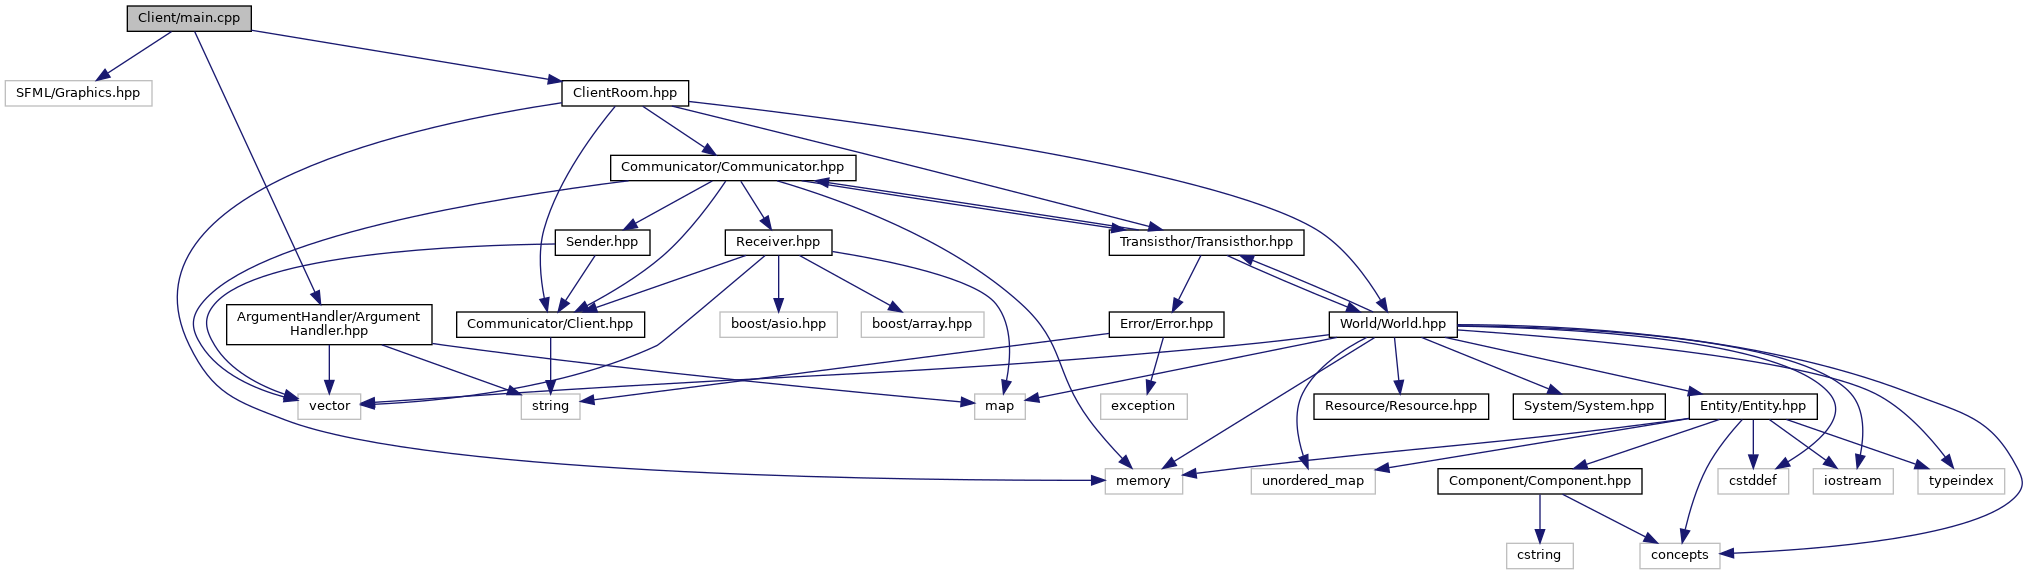
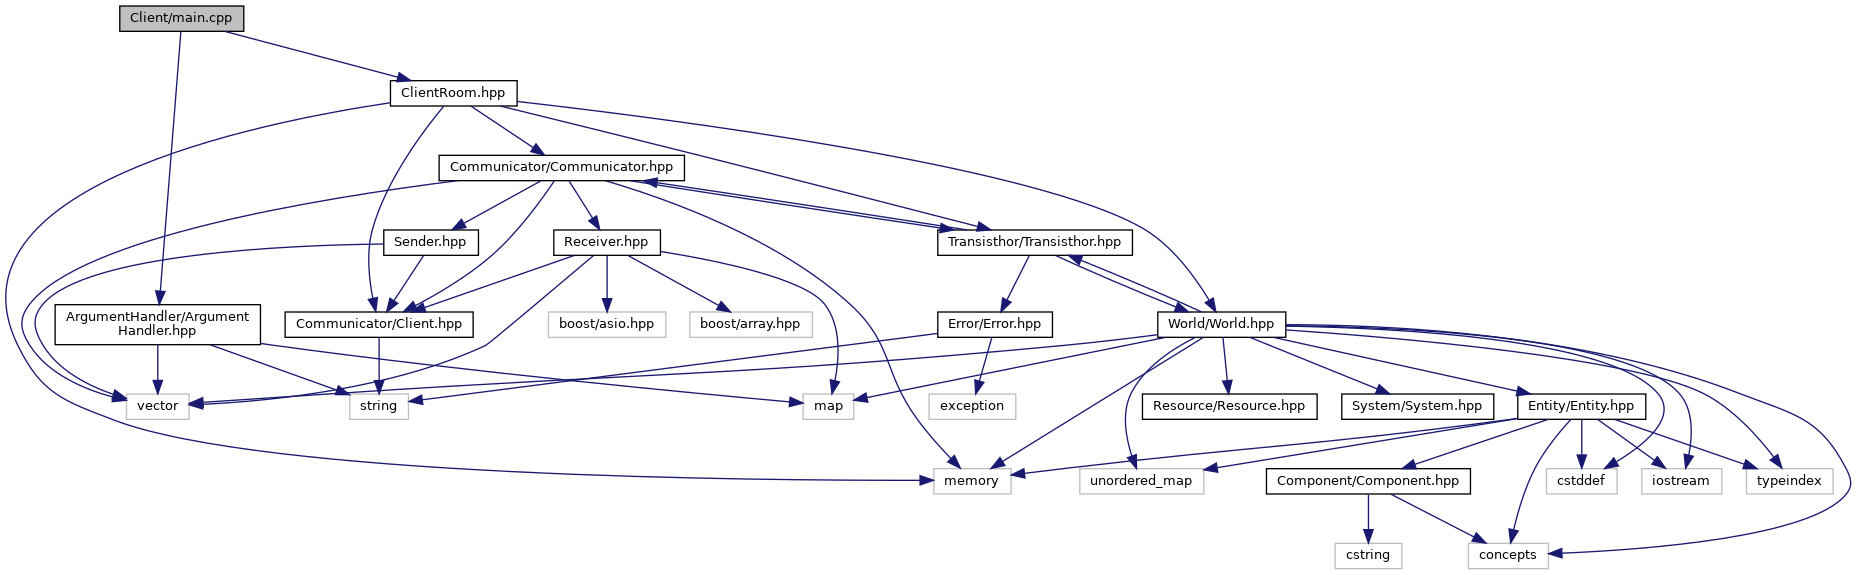
Deploying to gh-pages from @ R-Type-Epitech-Nantes/R-Type@b01fdc82051dd26b2456caabfe580a58cf3fda6e 🚀

diff --git a/_client_2main_8cpp.html b/_client_2main_8cpp.html
@@ -89,42 +89,40 @@ $(document).ready(function(){initNavTree('_client_2main_8cpp.html',''); initResi
 <div class="title">main.cpp File Reference</div>  </div>
 </div><!--header-->
 <div class="contents">
-<div class="textblock"><code>#include &lt;SFML/Graphics.hpp&gt;</code><br />
-<code>#include &quot;<a class="el" href="_argument_handler_8hpp_source.html">ArgumentHandler/ArgumentHandler.hpp</a>&quot;</code><br />
+<div class="textblock"><code>#include &quot;<a class="el" href="_argument_handler_8hpp_source.html">ArgumentHandler/ArgumentHandler.hpp</a>&quot;</code><br />
 <code>#include &quot;<a class="el" href="_client_room_8hpp_source.html">ClientRoom.hpp</a>&quot;</code><br />
 </div><div class="textblock"><div class="dynheader">
 Include dependency graph for main.cpp:</div>
 <div class="dyncontent">
 <div class="center"><img src="_client_2main_8cpp__incl.png" border="0" usemap="#_client_2main_8cpp" alt=""/></div>
 <map name="_client_2main_8cpp" id="_client_2main_8cpp">
-<area shape="rect" title=" " alt="" coords="127,5,251,32"/>
-<area shape="rect" title=" " alt="" coords="5,80,152,107"/>
-<area shape="rect" href="_argument_handler_8hpp.html" title=" " alt="" coords="227,304,432,345"/>
-<area shape="rect" href="_client_room_8hpp.html" title=" " alt="" coords="562,80,689,107"/>
-<area shape="rect" title=" " alt="" coords="975,393,1025,420"/>
-<area shape="rect" title=" " alt="" coords="521,393,580,420"/>
-<area shape="rect" title=" " alt="" coords="298,393,361,420"/>
-<area shape="rect" title=" " alt="" coords="1105,468,1183,495"/>
-<area shape="rect" href="_client_8hpp.html" title=" " alt="" coords="457,311,645,338"/>
-<area shape="rect" href="_communicator_8hpp.html" title=" " alt="" coords="611,155,856,181"/>
-<area shape="rect" href="_transisthor_8hpp.html" title=" " alt="" coords="1109,229,1304,256"/>
-<area shape="rect" href="_world_8hpp.html" title=" " alt="" coords="1329,311,1457,338"/>
-<area shape="rect" href="_receiver_8hpp.html" title=" " alt="" coords="725,229,832,256"/>
-<area shape="rect" href="_sender_8hpp.html" title=" " alt="" coords="555,229,650,256"/>
-<area shape="rect" title=" " alt="" coords="861,311,984,338"/>
-<area shape="rect" title=" " alt="" coords="720,311,837,338"/>
-<area shape="rect" href="_error_8hpp.html" title=" " alt="" coords="1109,311,1224,338"/>
-<area shape="rect" title=" " alt="" coords="1101,393,1187,420"/>
-<area shape="rect" title=" " alt="" coords="1640,543,1720,569"/>
-<area shape="rect" title=" " alt="" coords="1718,468,1789,495"/>
-<area shape="rect" title=" " alt="" coords="1813,468,1893,495"/>
-<area shape="rect" title=" " alt="" coords="1918,468,2005,495"/>
-<area shape="rect" href="_entity_8hpp.html" title=" " alt="" coords="1689,393,1817,420"/>
-<area shape="rect" title=" " alt="" coords="1251,468,1375,495"/>
-<area shape="rect" href="_resource_8hpp.html" title=" " alt="" coords="1314,393,1489,420"/>
-<area shape="rect" href="_system_8hpp.html" title=" " alt="" coords="1513,393,1665,420"/>
-<area shape="rect" href="_component_8hpp.html" title=" " alt="" coords="1438,468,1642,495"/>
-<area shape="rect" title=" " alt="" coords="1507,543,1573,569"/>
+<area shape="rect" title=" " alt="" coords="120,5,244,32"/>
+<area shape="rect" href="_argument_handler_8hpp.html" title=" " alt="" coords="55,304,260,345"/>
+<area shape="rect" href="_client_room_8hpp.html" title=" " alt="" coords="390,80,517,107"/>
+<area shape="rect" title=" " alt="" coords="803,393,854,420"/>
+<area shape="rect" title=" " alt="" coords="350,393,408,420"/>
+<area shape="rect" title=" " alt="" coords="126,393,189,420"/>
+<area shape="rect" title=" " alt="" coords="934,468,1011,495"/>
+<area shape="rect" href="_client_8hpp.html" title=" " alt="" coords="285,311,473,338"/>
+<area shape="rect" href="_communicator_8hpp.html" title=" " alt="" coords="439,155,684,181"/>
+<area shape="rect" href="_transisthor_8hpp.html" title=" " alt="" coords="938,229,1132,256"/>
+<area shape="rect" href="_world_8hpp.html" title=" " alt="" coords="1158,311,1286,338"/>
+<area shape="rect" href="_receiver_8hpp.html" title=" " alt="" coords="554,229,660,256"/>
+<area shape="rect" href="_sender_8hpp.html" title=" " alt="" coords="384,229,478,256"/>
+<area shape="rect" title=" " alt="" coords="690,311,812,338"/>
+<area shape="rect" title=" " alt="" coords="548,311,666,338"/>
+<area shape="rect" href="_error_8hpp.html" title=" " alt="" coords="938,311,1052,338"/>
+<area shape="rect" title=" " alt="" coords="929,393,1016,420"/>
+<area shape="rect" title=" " alt="" coords="1468,543,1548,569"/>
+<area shape="rect" title=" " alt="" coords="1546,468,1617,495"/>
+<area shape="rect" title=" " alt="" coords="1642,468,1722,495"/>
+<area shape="rect" title=" " alt="" coords="1746,468,1833,495"/>
+<area shape="rect" href="_entity_8hpp.html" title=" " alt="" coords="1518,393,1646,420"/>
+<area shape="rect" title=" " alt="" coords="1080,468,1204,495"/>
+<area shape="rect" href="_resource_8hpp.html" title=" " alt="" coords="1142,393,1317,420"/>
+<area shape="rect" href="_system_8hpp.html" title=" " alt="" coords="1342,393,1494,420"/>
+<area shape="rect" href="_component_8hpp.html" title=" " alt="" coords="1266,468,1470,495"/>
+<area shape="rect" title=" " alt="" coords="1335,543,1402,569"/>
 </map>
 </div>
 </div><table class="memberdecls">

diff --git a/_render_window_resource_8hpp_source.html b/_render_window_resource_8hpp_source.html
@@ -105,7 +105,7 @@ $(document).ready(function(){initNavTree('_render_window_resource_8hpp_source.ht
 <div class="line"><a name="l00016"></a><span class="lineno">   16</span>&#160;{</div>
 <div class="line"><a name="l00020"></a><span class="lineno"><a class="line" href="classecs_1_1_render_window_resource.html">   20</a></span>&#160;    <span class="keyword">class </span><a class="code" href="classecs_1_1_render_window_resource.html">RenderWindowResource</a> : <span class="keyword">public</span> <a class="code" href="classecs_1_1_resource.html">Resource</a> {</div>
 <div class="line"><a name="l00021"></a><span class="lineno">   21</span>&#160;        <span class="keyword">public</span>:</div>
-<div class="line"><a name="l00026"></a><span class="lineno"><a class="line" href="classecs_1_1_render_window_resource.html#ac222d8616d16eb84d0f87dd75b32739f">   26</a></span>&#160;            <a class="code" href="classecs_1_1_render_window_resource.html#ac222d8616d16eb84d0f87dd75b32739f">RenderWindowResource</a>(std::string title = <span class="stringliteral">&quot;Default&quot;</span>, sf::VideoMode mode = sf::VideoMode(1920, 1080, 32), sf::Uint32 style = sf::Style::Default)</div>
+<div class="line"><a name="l00026"></a><span class="lineno"><a class="line" href="classecs_1_1_render_window_resource.html#ac222d8616d16eb84d0f87dd75b32739f">   26</a></span>&#160;            <span class="keyword">inline</span> <a class="code" href="classecs_1_1_render_window_resource.html#ac222d8616d16eb84d0f87dd75b32739f">RenderWindowResource</a>(std::string title = <span class="stringliteral">&quot;Default&quot;</span>, sf::VideoMode mode = sf::VideoMode(1920, 1080, 32), sf::Uint32 style = sf::Style::Default)</div>
 <div class="line"><a name="l00027"></a><span class="lineno">   27</span>&#160;            {</div>
 <div class="line"><a name="l00028"></a><span class="lineno">   28</span>&#160;                <a class="code" href="classecs_1_1_render_window_resource.html#a45f9e75334d69946d931b258d19db36a">window</a>.create(mode, title, sf::Style::Default);</div>
 <div class="line"><a name="l00029"></a><span class="lineno">   29</span>&#160;            };</div>

diff --git a/_projectile_component_8hpp_source.html b/_projectile_component_8hpp_source.html
@@ -101,7 +101,7 @@ $(document).ready(function(){initNavTree('_projectile_component_8hpp_source.html
 <div class="line"><a name="l00012"></a><span class="lineno">   12</span>&#160; </div>
 <div class="line"><a name="l00013"></a><span class="lineno">   13</span>&#160;<span class="keyword">namespace </span><a class="code" href="namespaceecs.html">ecs</a></div>
 <div class="line"><a name="l00014"></a><span class="lineno">   14</span>&#160;{</div>
-<div class="line"><a name="l00016"></a><span class="lineno"><a class="line" href="classecs_1_1_projectile.html">   16</a></span>&#160;   <span class="keyword">class </span><a class="code" href="classecs_1_1_projectile.html">Projectile</a> : <span class="keyword">public</span> <a class="code" href="classecs_1_1_component.html">Component</a> {}; </div>
+<div class="line"><a name="l00016"></a><span class="lineno"><a class="line" href="classecs_1_1_projectile.html">   16</a></span>&#160;   <span class="keyword">class </span><a class="code" href="classecs_1_1_projectile.html">Projectile</a> : <span class="keyword">public</span> <a class="code" href="classecs_1_1_component.html">Component</a> {};</div>
 <div class="line"><a name="l00017"></a><span class="lineno">   17</span>&#160;} <span class="comment">// namespace ecs</span></div>
 <div class="line"><a name="l00018"></a><span class="lineno">   18</span>&#160; </div>
 <div class="line"><a name="l00019"></a><span class="lineno">   19</span>&#160;<span class="preprocessor">#endif </span><span class="comment">/* !PROJECTILECOMPONENT_HPP_ */</span><span class="preprocessor"></span></div>
